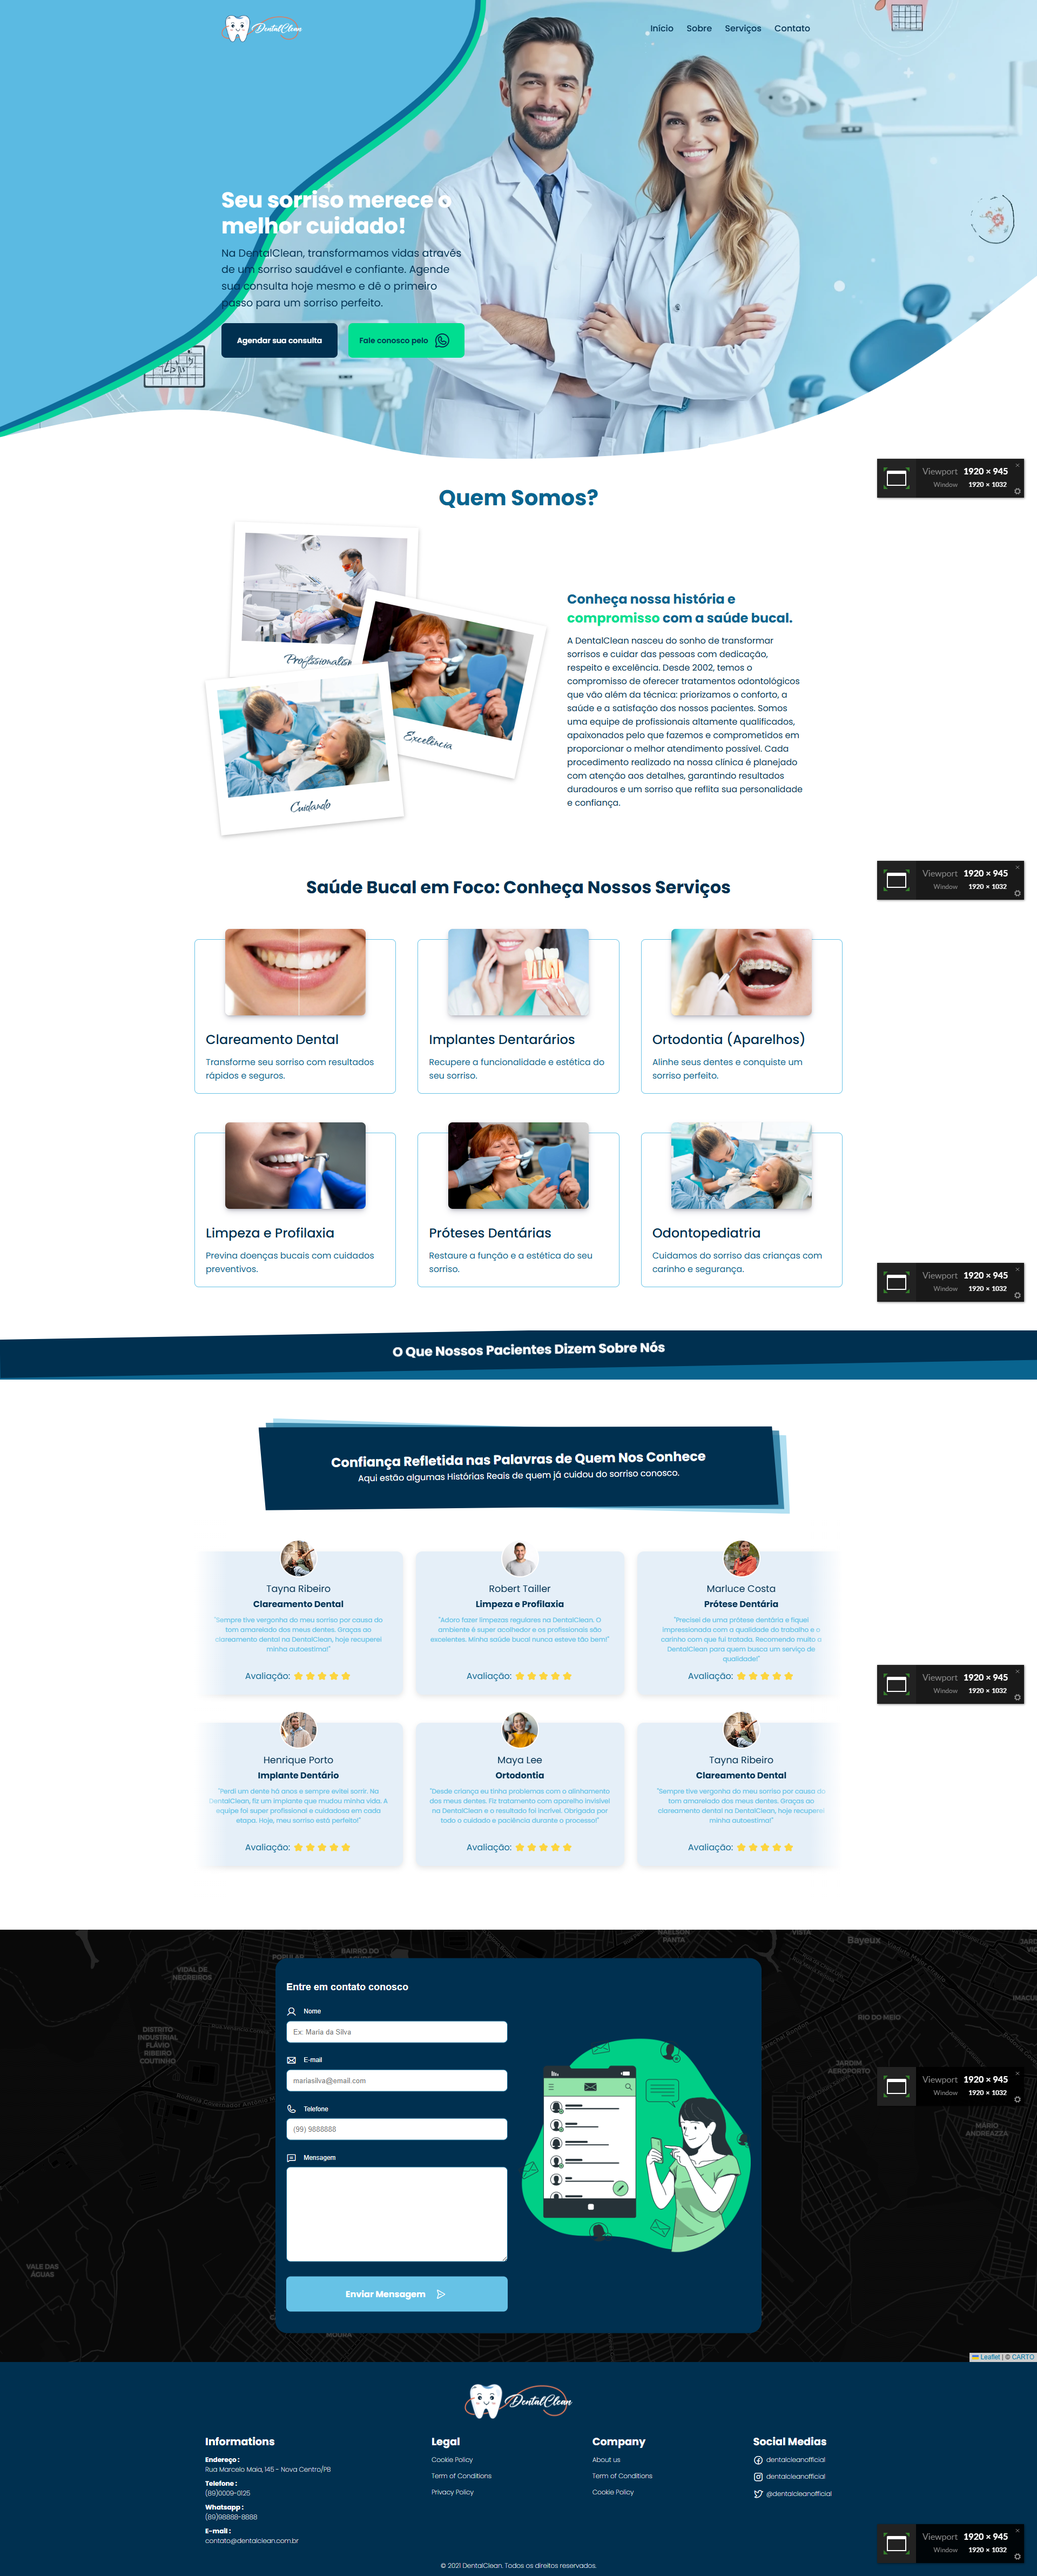
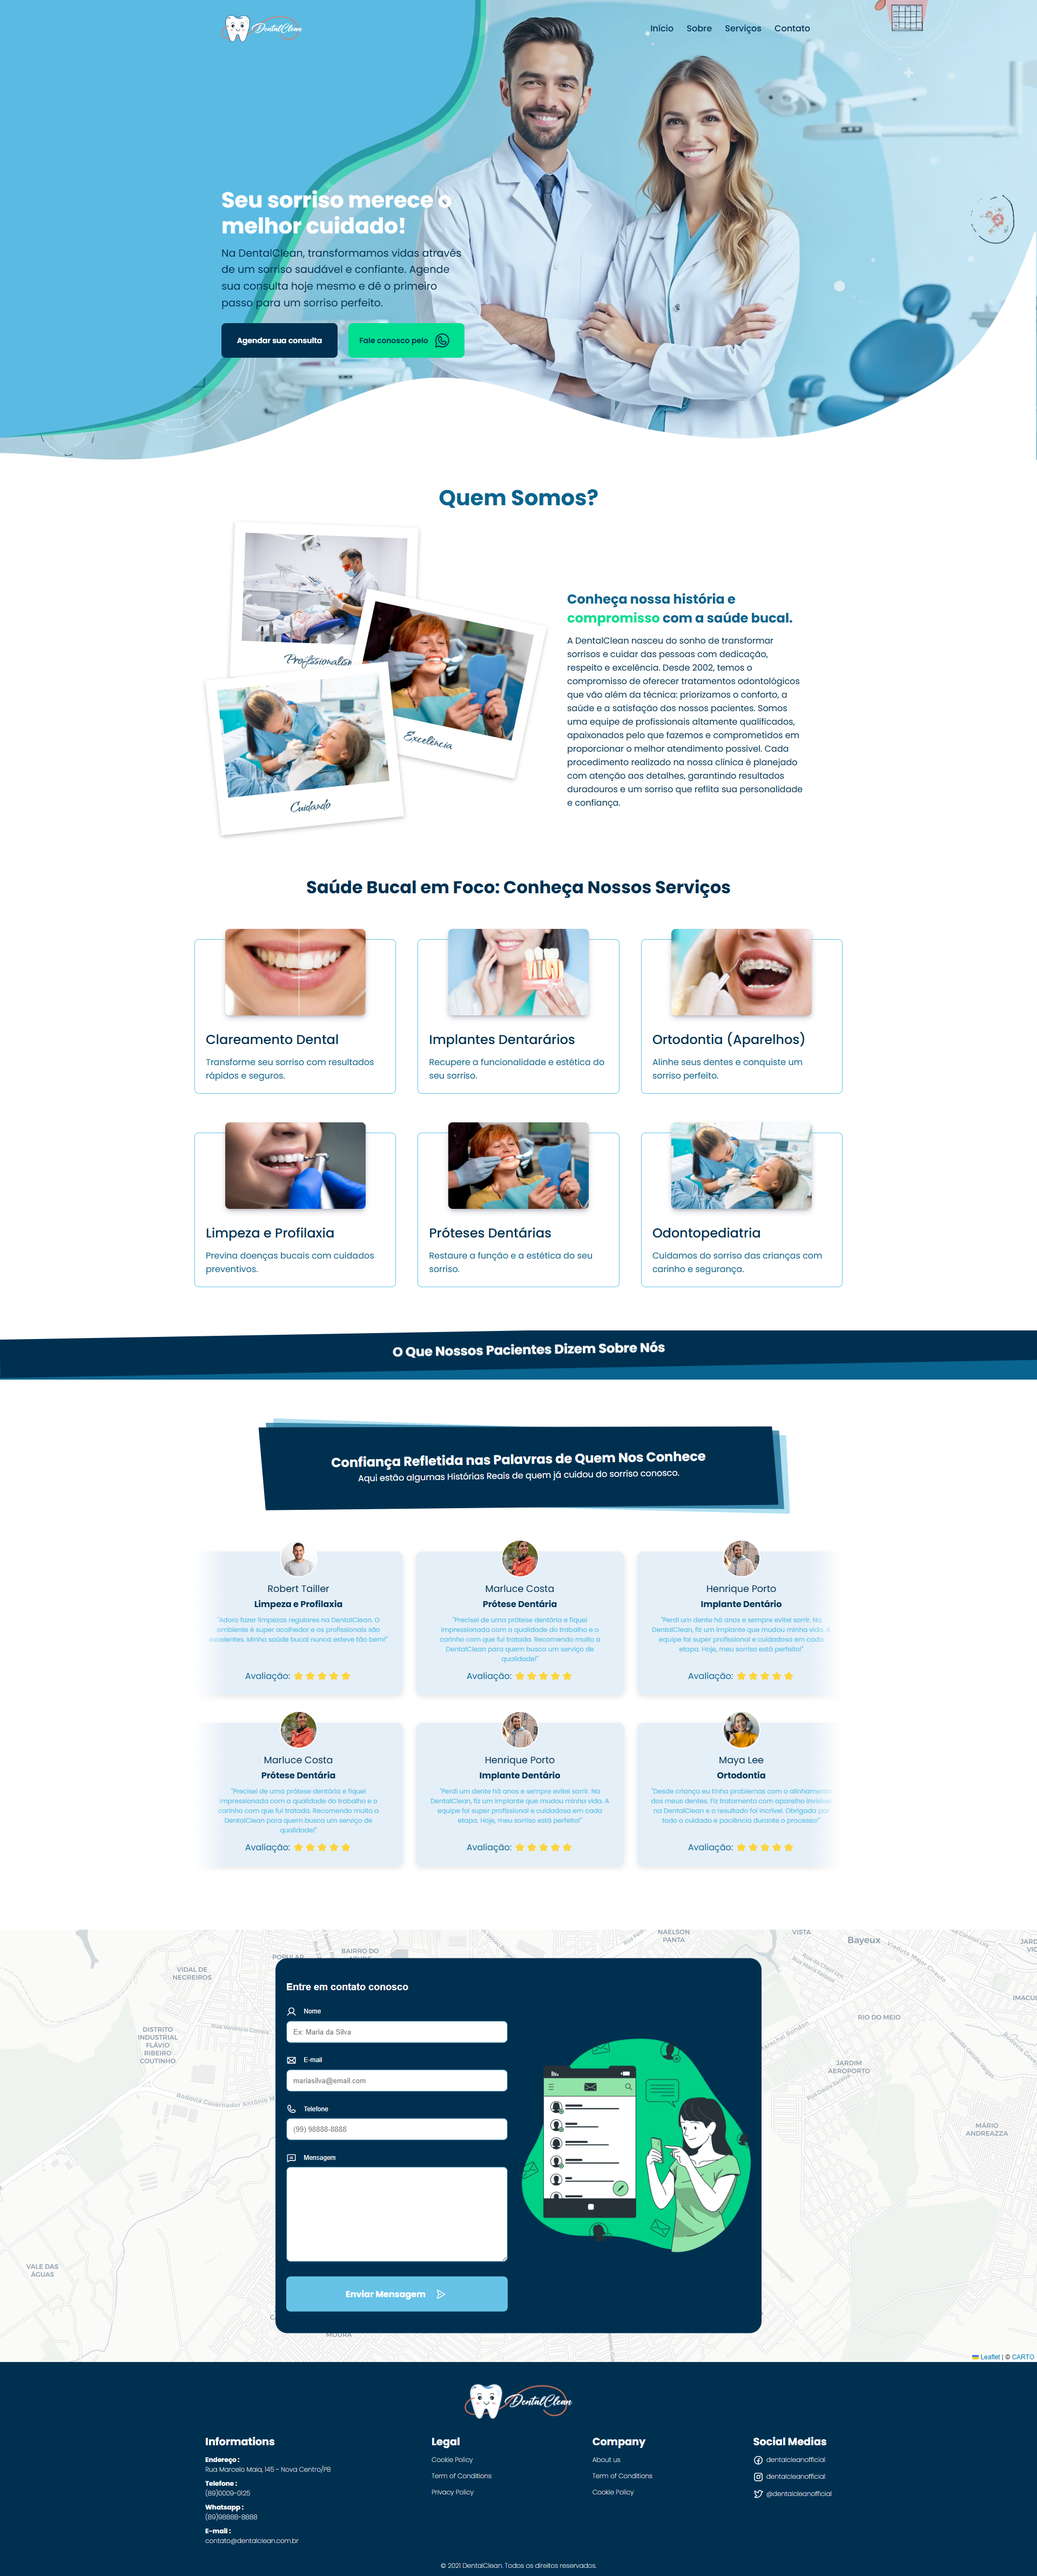
Consertando os shapes svg

diff --git a/index.html b/index.html
@@ -35,26 +35,26 @@
               <img src="./assets/odonto-logo.png" alt="Logo DentalClean" />
             </a>
           </div>
-            <ul class="menu" id="menu">
-              <li class="menu_item">
-                <a href="#home" class="menu_link">Início</a>
-              </li>
-              <li class="menu_item">
-                <a href="#about" class="menu_link">Sobre</a>
-              </li>
-              <li class="menu_item">
-                <a href="#services" class="menu_link">Serviços</a>
-              </li>
-              <li class="menu_item">
-                <a href="#contact" class="menu_link">Contato</a>
-              </li>
-              <div class="close_icon">
-                <i class="ph ph-x"></i>
-              </div>
-            </ul>
-            <div class="toggle_icon">
-              <i class="ph ph-list" ></i>
+          <ul class="menu" id="menu">
+            <li class="menu_item">
+              <a href="#home" class="menu_link">Início</a>
+            </li>
+            <li class="menu_item">
+              <a href="#about" class="menu_link">Sobre</a>
+            </li>
+            <li class="menu_item">
+              <a href="#services" class="menu_link">Serviços</a>
+            </li>
+            <li class="menu_item">
+              <a href="#contact" class="menu_link">Contato</a>
+            </li>
+            <div class="close_icon">
+              <i class="ph ph-x"></i>
             </div>
+          </ul>
+          <div class="toggle_icon">
+            <i class="ph ph-list"></i>
+          </div>
         </div>
       </header>
 
@@ -74,40 +74,22 @@
               <rect
                 x="0"
                 y="0"
-                width="700"
-                height="700"
+                width="800"
+                height="800"
                 fill="#3f3f3f00"
                 rx="0"
               />
               <path
-                fill="#00de90"
-                d="
-                M0,0 
-                H900 
-                C900,200 600,300 520,420 
-                C480,480 480,560 360,640 
-                C260,700 140,760 0,810 
-                Z"
+                fill="#00de9090"
+                d="M0 0H900C904 349 657 224 572 404S477 625 432 681C368 760 313 799 0 810Z"
               />
               <path
-                fill="#09648f"
-                d="
-                M0,0 
-                H890 
-                C890,190 590,290 510,410 
-                C470,470 470,550 350,630 
-                C250,690 130,750 0,800 
-                Z"
+                fill="#09648f80"
+                d="M0 0H890C894 339 647 214 562 394S467 615 422 671C358 750 303 789 0 810Z"
               />
               <path
                 fill="#66c2e6"
-                d="
-                M0,0 
-                H880 
-                C880,180 580,280 500,400 
-                C460,460 460,540 340,620 
-                C240,680 120,740 0,790 
-                Z"
+                d="M0 0H880C880 325 643 200 550 384S458 605 412 661C348 740 293 779 0 810Z"
               />
             </svg>
           </div>
@@ -134,13 +116,14 @@
         <svg
           class="shape-bottom"
           xmlns="http://www.w3.org/2000/svg"
-          viewBox="0 0 1440 320"
+          viewBox="0 0 1922 422"
           preserveAspectRatio="xMidYMid meet"
         >
           <path
             fill="#fff"
             fill-opacity="1"
-            d="M0,288L48,277.3C96,267,192,245,288,250.7C384,256,490,298,576,310.7C672,329,988,309,984,298.3C990,299,1056,288,1152,250.7C1248,213,1344,139,1392,101.3L1440,64L1440,320L1392,320C1344,320,1248,320,1152,320C1056,320,960,320,864,320C768,320,672,320,576,320C480,320,384,320,288,320C192,320,96,320,48,320L0,320Z"
+            d="M546.508 349.258C290.605 461.099 126.539 408.773 0 408.773V426.5H1920V-8.32941C1830.83 247.733 1743.64 273.74 1645 323.252C1469.57 411.309 1240.98 390.768 1051.17 323.252C814.285 238.99 758.236 256.723 546.508 349.258Z"
+            class="shape-fill"
           ></path>
         </svg>
       </section>
@@ -417,7 +400,7 @@
             <label for=""><i class="ph ph-envelope"></i>E-mail</label>
             <input type="text" placeholder="mariasilva@email.com" />
             <label for=""><i class="ph ph-phone"></i>Telefone</label>
-            <input type="text" placeholder="(99) 9888888" />
+            <input type="text" placeholder="(99) 98888-8888" />
             <label for=""><i class="ph ph-chat-text"></i>Mensagem</label>
             <textarea
               name=""
@@ -427,7 +410,7 @@
               placeholder="Breve mensagem..."
             >
             </textarea>
-  
+
             <button type="button">
               Enviar Mensagem<i class="ph ph-paper-plane-right"></i>
             </button>
@@ -504,7 +487,6 @@
         </div>
       </div>
     </footer>
-
 
     <script src="https://unpkg.com/leaflet/dist/leaflet.js"></script>
     <script src="https://cdn.jsdelivr.net/npm/swiper/swiper-bundle.min.js"></script>

diff --git a/script.js b/script.js
@@ -34,9 +34,9 @@ const mapa = L.map("mapa", {
   keyboard: false,
   tap: false,
   touchZoom: false,
-}).setView([-7.1464312, -34.9639985], 15); // São Paulo
+}).setView([-7.1464312, -34.9639985], 15);
 
-L.tileLayer("https://{s}.basemaps.cartocdn.com/dark_all/{z}/{x}/{y}{r}.png", {
+L.tileLayer("https://{s}.basemaps.cartocdn.com/light_all/{z}/{x}/{y}{r}.png", {
   attribution: '&copy; <a href="https://carto.com/">CARTO</a>',
   subdomains: "abcd",
   maxZoom: 19,

diff --git a/styles.css b/styles.css
@@ -196,6 +196,7 @@ a {
 }
 
 .shapes {
+  overflow: hidden;
   position: absolute;
   left: 0;
   top: 0;
@@ -956,6 +957,7 @@ footer {
   }
 
   .hero {
+    width: 100%;
     height: 100vh;
   }
 

diff --git a/README.md b/README.md
@@ -21,4 +21,4 @@ Se tiver dúvidas ou sugestões, entre em contato:
 
 - LinkedIn : [linkedin.com/in/seu-perfil](https://www.linkedin.com/in/gerson-santos-silva/)
 
-<a href="https://landingpage-waiter.vercel.app/" target="_blank">Click para conferir o projeto</a>
+<a href="https://landing-odonto.vercel.app/" target="_blank">Click para conferir o projeto</a>
